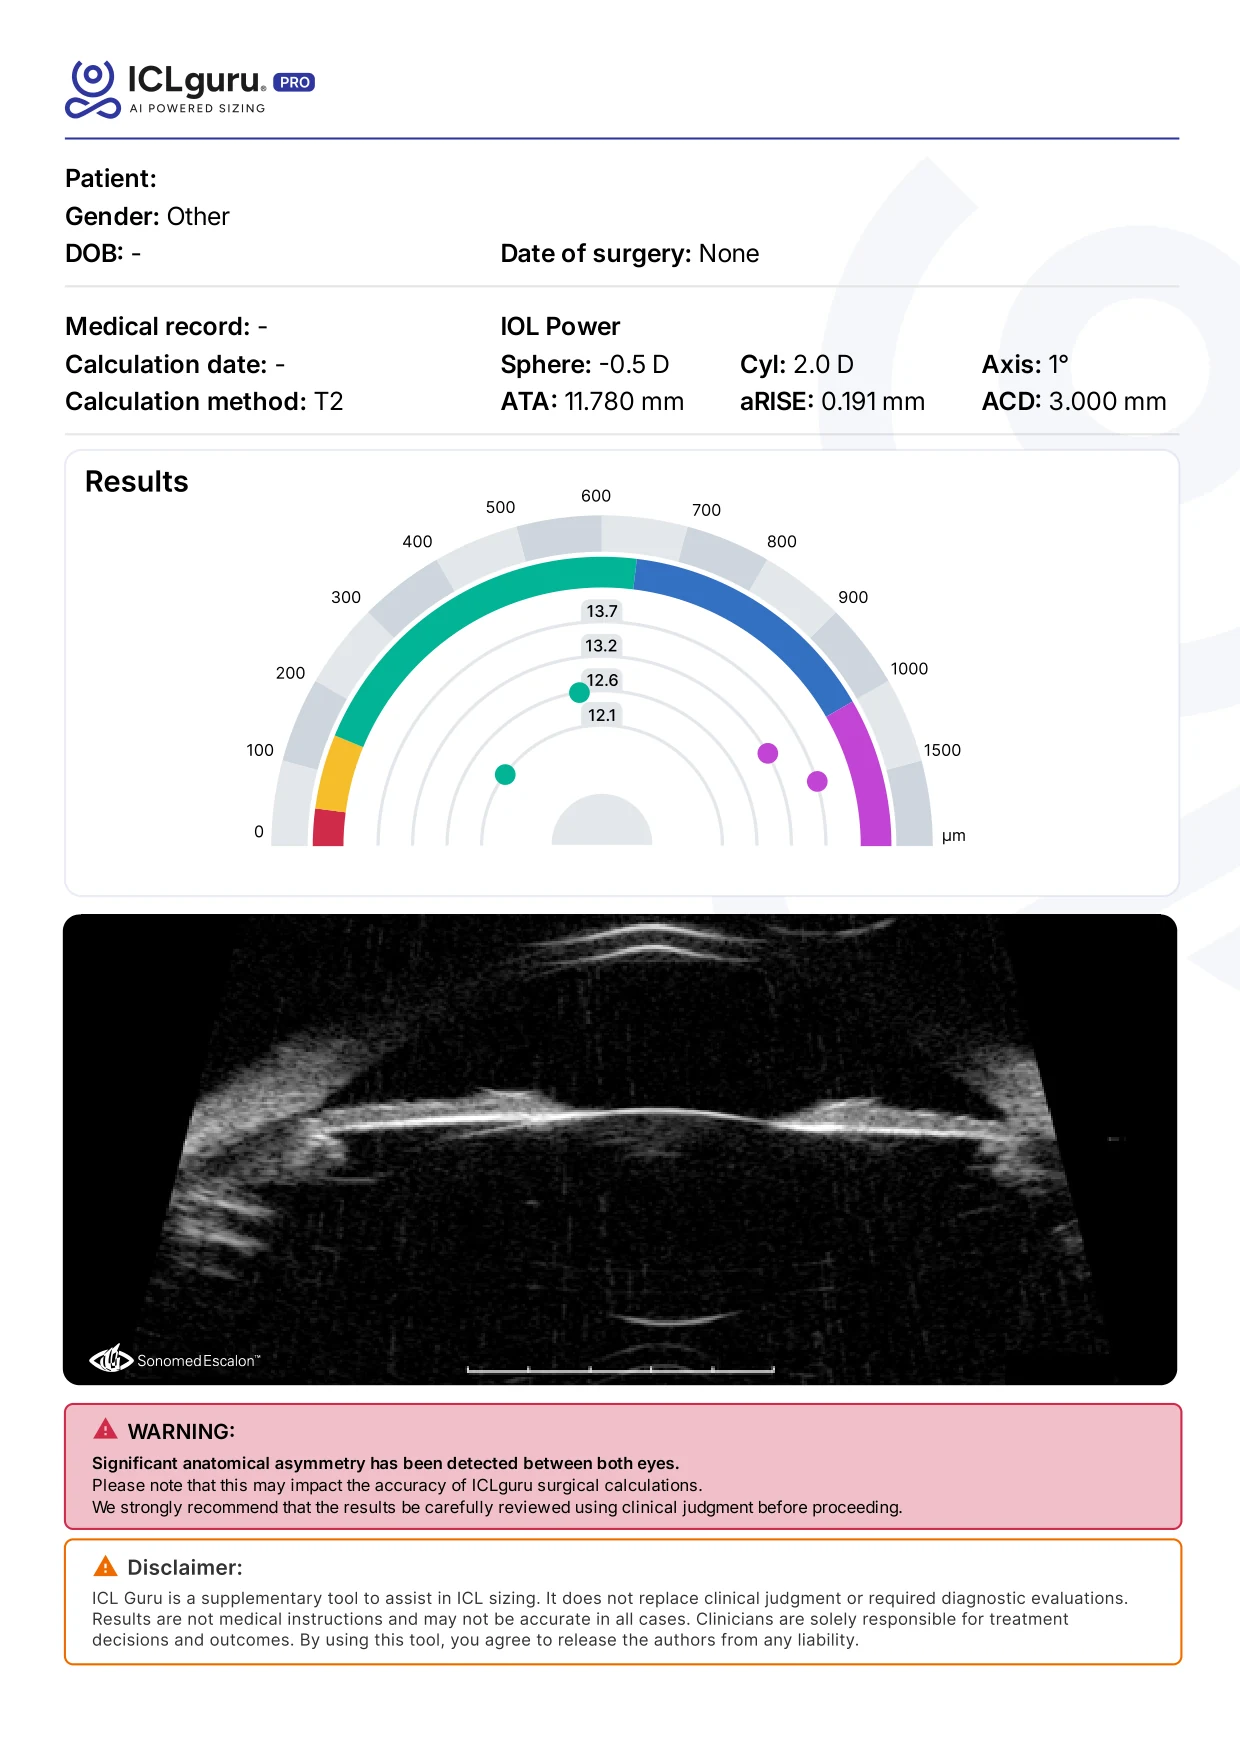
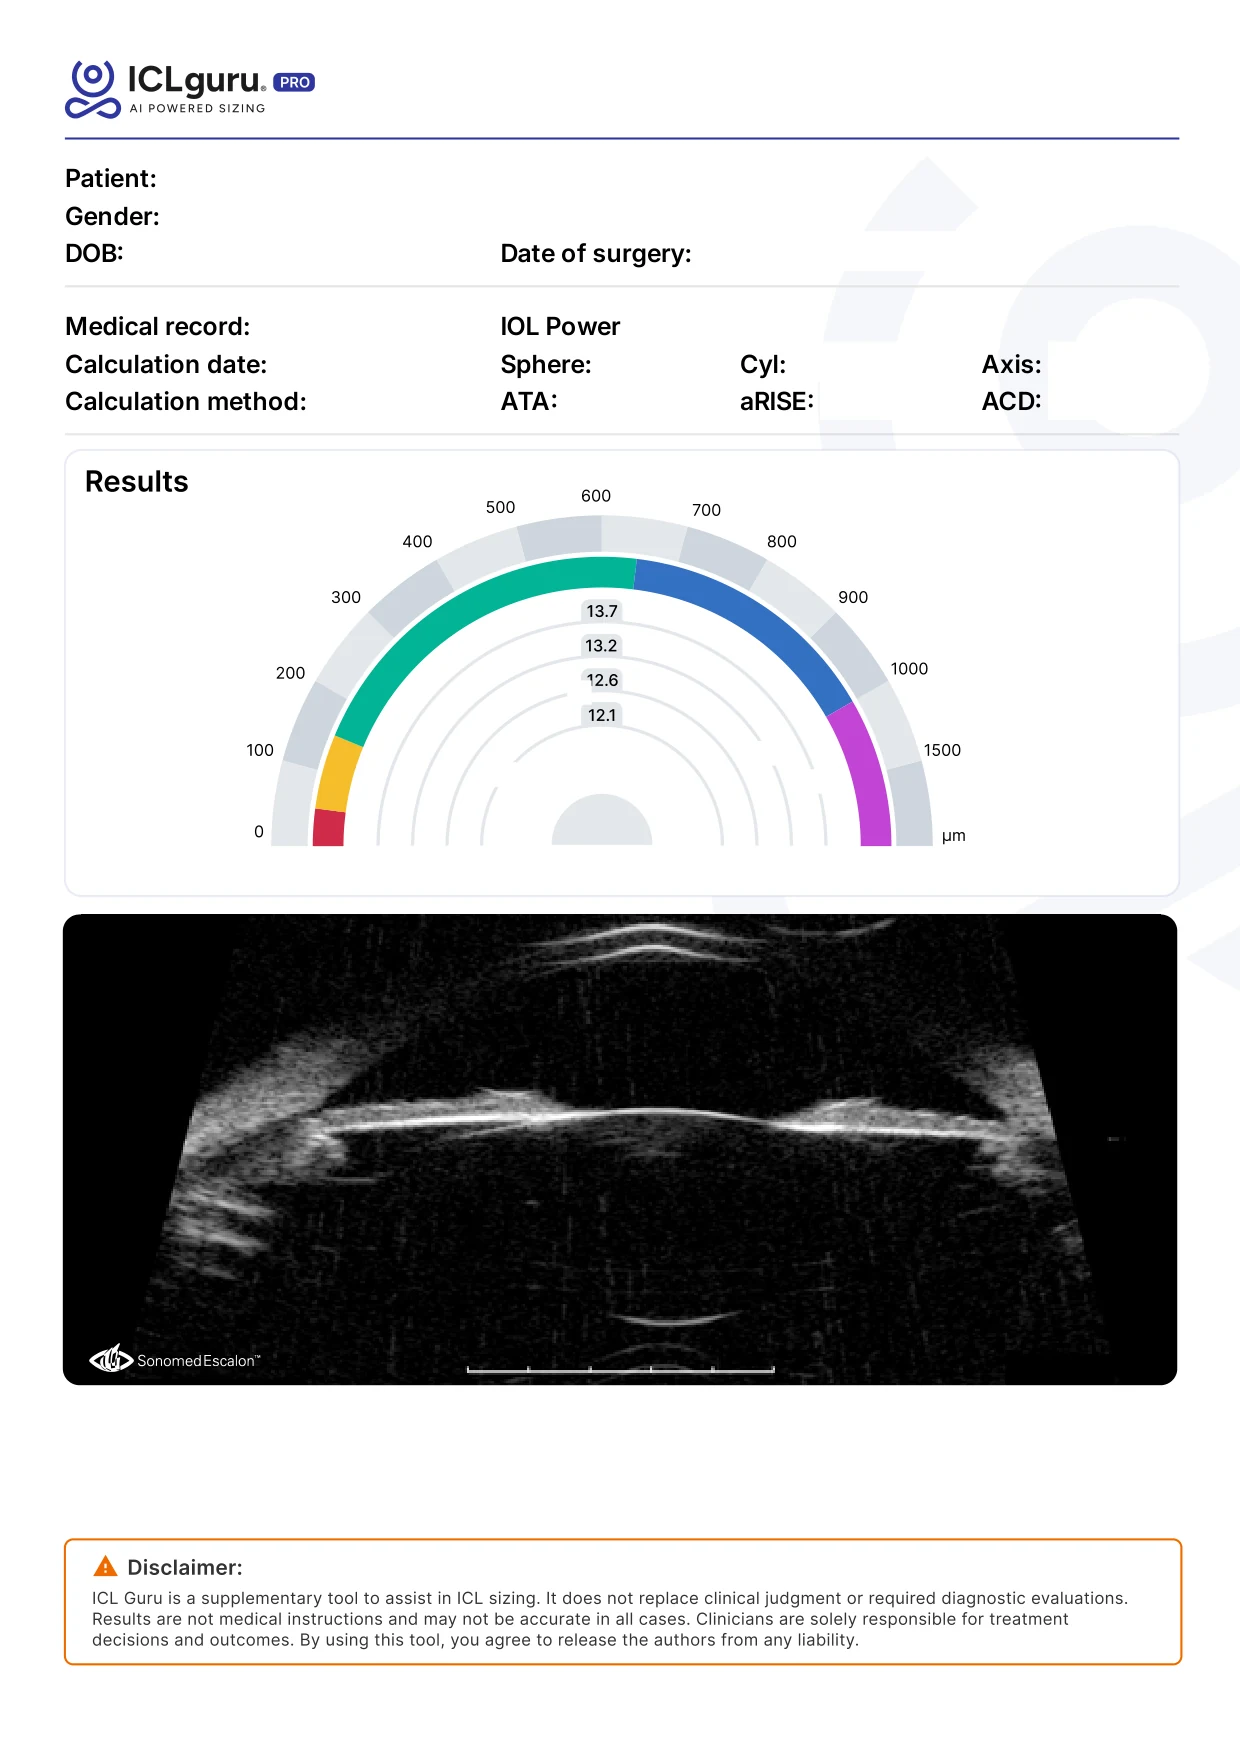
ICL Guru report: every value now comes from the open case
The page images keep only the document's fixed chrome; every
case-specific value is blanked out of them and redrawn as an SVG overlay
in PDF coordinates: patient, gender, medical record, calculation date,
sphere/cyl/axis, ATA/aRISE/ACD, the four per-size vault predictions with
their peripheral vault and angle, the band-probability chips, the vault
shape and its colour split, the dial markers and the selection ring.

SIZING_ENGINE gains vaultBySize(), the vault this method predicts for
every manufactured size. Safety bands were measured off the report's own
colour arc; the band spread is fitted to the sample report and is an
approximation, like every formula in this demo.

Claude-Session: https://claude.ai/code/session_01Tarukggi7Jbmx53aMLJncP

diff --git a/dashboard/js/19-stella-order-modal-submit-lens-order-to-st.js b/dashboard/js/19-stella-order-modal-submit-lens-order-to-st.js
@@ -403,63 +403,249 @@ function _synthesizeIclGuruFromForm(pt, vault, size){
 ================================================================ */
 var ICLGURU_REPORT = {
   pages: [{ src: '/assets/iclguru/report-p1.webp' }, { src: '/assets/iclguru/report-p2.webp' }],
-  pt: { w: 594.96, h: 841.92 },                    // page box, in PDF points
-  name: { x: 78.4, baseline: 89.4, size: 12 },     // "Patient:" value
+  pt: { w: 594.96, h: 841.92 },              // page box, in PDF points
+  font: "Inter, 'Helvetica Neue', system-ui, sans-serif",
+  /* Header values. x is the label's right edge, y the text baseline —
+     both read off the source PDF, so the values land in the original slots. */
+  head: {
+    size: 12,
+    name:     { x: 78.4,  y: 89.4 },
+    gender:   { x: 79.9,  y: 107.4 },
+    dob:      { x: 62.7,  y: 125.4 },
+    surgery:  { x: 335.4, y: 125.4 },
+    mrn:      { x: 123.4, y: 160.4 },
+    calcdate: { x: 131.7, y: 178.4 },
+    method:   { x: 150.4, y: 196.4 },
+    sph:      { x: 287.4, y: 178.4 },
+    cyl:      { x: 380.6, y: 178.4 },
+    axis:     { x: 503.4, y: 178.4 },
+    ata:      { x: 270.9, y: 196.4 },
+    arise:    { x: 394.1, y: 196.4 },
+    acd:      { x: 503.4, y: 196.4 }
+  },
   badge: { cx: 252.6, cy: 87.5, r: 12.5, fill: '#3689E7', size: 9.5 },
-  /* Page 2 · "Results": four size cards, measured from the source PDF.
-     The sample report has 12.1 ringed; the ring is repainted onto whichever
-     size ICL Guru actually recommends for this case. */
+  /* Page 1 · the vault dial. Centre, per-size ring radii and the angle of the
+     0 / 1000 / 1500 µm ticks, all fitted to the source drawing. */
+  dial: { page: 1, cx: 288.21, cy: 407.33, rings: [57.87, 75.54, 92.45, 108.97],
+          a0: 177.12, a1000: 30.44, a1500: 1.69, dot: 4.95 },
+  /* Page 2 · the four size cards. */
   cards: {
-    page: 2, sizes: [12.1, 12.6, 13.2, 13.7],
-    x0: 31.2, w: 119.9, step: 138.0, y0: 247.0, h: 273.9, r: 7.9,
-    grow: 0.8,                       // the selected card's ring sits 0.8 pt outside
-    on: '#4966FF', off: '#EEECF4'    // ring colours, sampled from the render
-  }
+    page: 2, sizes: [12.1, 12.6, 13.2, 13.7], step: 137.98,
+    x0: 31.2, w: 119.9, y0: 247.0, h: 273.9, r: 7.9, grow: 0.8,
+    on: '#4966FF', off: '#EEECF4', ink: '#001DB4',
+    vault:  { x: 53.2,  y: 323.4, size: 11 },
+    periph: { x: 53.2,  y: 348.6, size: 7 },
+    angle:  { x: 114.1, y: 348.6, size: 7 },
+    pill:   { x: 55.42, y: 367.2, w: 34.49, h: 13.5, gap: 1.5, size: 10.7, y1: 377.9 },
+    blob:   { path: 'M86.89 385.99C88.37 385.87 95.7 386.03 97.22 386.23C98.11 386.33 99.92 386.63 101.24 386.91C107.1 388.08 113.38 388.54 123.95 388.57L129.39 388.58L130.09 388.92C131.71 389.72 132.66 391.08 132.77 392.77C132.85 393.94 132.59 394.81 131.87 395.87C130.9 397.28 130.38 398.49 129.99 400.21C129.74 401.32 129.61 409.79 129.72 417.95C129.79 423.52 129.8 423.61 130.12 424.82C130.51 426.28 130.94 427.26 131.8 428.56C132.6 429.76 132.85 430.59 132.77 431.75C132.66 433.42 131.77 434.75 130.24 435.5L129.28 435.97L125.37 435.93C116.5 435.83 106.01 436.53 101.99 437.47L101.32 437.62C98.07 438.34 95.53 438.56 90.73 438.56C85.59 438.56 83.05 438.31 79.42 437.46C75.44 436.53 64.99 435.83 56.14 435.93L52.18 435.97L51.35 435.57C49.76 434.82 48.79 433.45 48.68 431.78C48.61 430.66 48.82 429.87 49.51 428.77L49.66 428.55C50.89 426.67 51.44 425.09 51.62 422.73C51.77 420.99 51.78 405.76 51.65 402.29L51.62 401.76C51.46 399.61 50.91 397.92 49.81 396.21L49.58 395.87C48.91 394.88 48.64 394.05 48.67 392.99L48.68 392.77C48.79 391.09 49.79 389.64 51.35 388.91L52.06 388.58L57.5 388.57C67.45 388.54 74.66 388.05 79.28 387.08C81.83 386.55 83.37 386.3 85.79 386.08L86.89 385.99Z', x: 49.17, y: 386.45, w: 83.49, h: 51.49 }
+  },
+  /* Vault safety bands, in µm, measured off the dial's own colour arc. */
+  bands: [
+    { to: 36,   key: 'critical', color: '#CF2B49' },
+    { to: 139,  key: 'low',      color: '#F6BF2C' },
+    { to: 644,  key: 'ideal',    color: '#03B496' },
+    { to: 1002, key: 'high',     color: '#3371C3' },
+    { to: 1e9,  key: 'hyper',    color: '#C144D4' }
+  ],
+  /* Spread of the vault estimate, as a fraction of the prediction. Drives the
+     band-probability chips and the split of the vault shape. Fitted to the
+     sample report; an approximation, like every formula in this demo. */
+  sd: 0.35
 };
 
-/* Repaint the "selected size" ring of page 2 onto the recommended size:
-   white over the ring that is there, then the ring where it belongs. */
-function _guruSizeRings(pageNo, size) {
-  var C = ICLGURU_REPORT.cards;
-  if (pageNo !== C.page || size == null) return '';
-  var want = -1, best = 0.051;
-  for (var i = 0; i < C.sizes.length; i++) {
-    var d = Math.abs(C.sizes[i] - Number(size));
-    if (d < best) { best = d; want = i; }
+function _esc(v) { return String(v == null ? '' : v).replace(/[&<>"']/g, function (c) {
+  return { '&': '&amp;', '<': '&lt;', '>': '&gt;', '"': '&quot;', "'": '&#39;' }[c]; }); }
+
+/* ---- small maths shared by the chips, the shape and the dial ---- */
+function _guruErf(x) {                              // Abramowitz & Stegun 7.1.26
+  var s = x < 0 ? -1 : 1; x = Math.abs(x);
+  var t = 1 / (1 + 0.3275911 * x);
+  var y = 1 - ((((1.061405429 * t - 1.453152027) * t + 1.421413741) * t
+    - 0.284496736) * t + 0.254829592) * t * Math.exp(-x * x);
+  return s * y;
+}
+function _guruCdf(x, mu, sd) { return 0.5 * (1 + _guruErf((x - mu) / (sd * Math.SQRT2))); }
+
+/* Probability mass per safety band for a vault prediction. */
+function _guruBands(vault) {
+  var R = ICLGURU_REPORT, sd = Math.max(25, R.sd * vault), lo = 0, out = [];
+  for (var i = 0; i < R.bands.length; i++) {
+    var hi = R.bands[i].to;
+    var p = _guruCdf(hi, vault, sd) - _guruCdf(lo, vault, sd);
+    out.push({ key: R.bands[i].key, color: R.bands[i].color, p: p });
+    lo = hi;
   }
-  if (want < 0 || want === 0) return '';   // 0 is already the ringed card
-  function box(i, grow) {
-    return { x: C.x0 + C.step * i - grow, y: C.y0 - grow,
-             w: C.w + grow * 2, h: C.h + grow * 2, r: C.r + grow };
-  }
-  function rect(b, stroke, w) {
-    return '<rect x="' + b.x.toFixed(2) + '" y="' + b.y.toFixed(2) + '" width="' + b.w.toFixed(2) +
-      '" height="' + b.h.toFixed(2) + '" rx="' + b.r.toFixed(2) + '" fill="none" stroke="' + stroke +
-      '" stroke-width="' + w + '"/>';
-  }
-  return rect(box(0, C.grow), '#fff', 4) + rect(box(0, 0), C.off, 1) +
-         rect(box(want, 0), '#fff', 3)   + rect(box(want, C.grow), C.on, 1.5);
+  return out;
+}
+/* The one or two bands the report shows, most likely first in card order. */
+function _guruTopBands(vault) {
+  var all = _guruBands(vault);
+  var idx = all.map(function (b, i) { return i; })
+               .sort(function (a, b) { return all[b].p - all[a].p; });
+  var keep = [idx[0]];
+  if (all[idx[1]] && all[idx[1]].p >= 0.015) keep.push(idx[1]);
+  keep.sort(function (a, b) { return a - b; });        // low band on the left
+  return keep.map(function (i) {
+    return { key: all[i].key, color: all[i].color, pct: Math.round(all[i].p * 100) };
+  });
+}
+function _guruBandColor(vault) {
+  var R = ICLGURU_REPORT;
+  for (var i = 0; i < R.bands.length; i++) if (vault <= R.bands[i].to) return R.bands[i].color;
+  return R.bands[R.bands.length - 1].color;
+}
+/* Vault → angle on the dial. The scale is linear to 1000 µm, then compressed. */
+function _guruDialAngle(v) {
+  var D = ICLGURU_REPORT.dial;
+  v = Math.max(0, Math.min(1500, v));
+  return v <= 1000 ? D.a0 - (D.a0 - D.a1000) * (v / 1000)
+                   : D.a1000 - (D.a1000 - D.a1500) * ((v - 1000) / 500);
 }
 
-function _guruPage(src, name, eye, pageNo, size) {
+/* ---- SVG helpers ---- */
+function _gText(x, y, size, txt, opt) {
+  opt = opt || {};
+  return '<text x="' + x + '" y="' + y + '" font-family="' + ICLGURU_REPORT.font + '"' +
+    ' font-size="' + size + '" font-weight="' + (opt.weight || 400) + '"' +
+    (opt.anchor ? ' text-anchor="' + opt.anchor + '"' : '') +
+    ' fill="' + (opt.fill || '#000') + '">' + _esc(txt) + '</text>';
+}
+function _gRect(x, y, w, h, r, fill, stroke, sw) {
+  return '<rect x="' + x.toFixed(2) + '" y="' + y.toFixed(2) + '" width="' + w.toFixed(2) +
+    '" height="' + h.toFixed(2) + '" rx="' + r.toFixed(2) + '" fill="' + (fill || 'none') + '"' +
+    (stroke ? ' stroke="' + stroke + '" stroke-width="' + sw + '"' : '') + '/>';
+}
+
+/* ================= the report model, built from the live case ============= */
+function _guruModel(pt, eye, size) {
+  var SE = window.SIZING_ENGINE;
+  var raw = (SE && SE.readInputs) ? SE.readInputs() : {};
+  var run = (SE && SE.run) ? SE.run('ICL_GURU', raw) : null;
+  var i = (run && run.inputs) || {};
+  var curve = (SE && SE.vaultBySize) ? SE.vaultBySize('ICL_GURU', raw) : null;
+
+  function fld(id) { var e = document.getElementById(id); return e ? String(e.value).trim() : ''; }
+  function n(v) { var x = parseFloat(v); return isFinite(x) ? x : null; }
+  var sph = n(fld('sf-rx-man-sph')), cyl = n(fld('sf-rx-man-cyl')), ax = n(fld('sf-rx-man-ax'));
+  if (sph == null) sph = n(String(pt.power || '').split('/')[eye === 'OS' ? 1 : 0]);
+
+  return {
+    name: pt.name,
+    eye: eye,
+    gender: pt.sex === 'F' ? 'Female' : pt.sex === 'M' ? 'Male' : 'Other',
+    dob: '-',                       // the demo records age, never a date of birth
+    surgery: pt.surgeryDate || 'None',
+    mrn: 'REV-' + pt.id,
+    calcdate: new Date().toLocaleDateString('en-GB'),
+    method: 'T2',
+    sph: sph == null ? '-' : sph.toFixed(1) + ' D',
+    cyl: cyl == null ? '-' : Math.abs(cyl).toFixed(1) + ' D',
+    axis: ax == null ? '-' : Math.round(ax) + '\u00B0',
+    ata: isFinite(i.ata) ? i.ata.toFixed(3) + ' mm' : '-',
+    /* aRISE is captured in mm on the pre-op form — printed as entered, so the
+       report and the form always agree. (The sizing engine reads the same
+       field as µm; that unit mismatch lives in the engine, not here.) */
+    arise: n(fld('sf-arise')) != null ? n(fld('sf-arise')).toFixed(3) + ' mm' : '-',
+    acd: isFinite(i.acd) ? i.acd.toFixed(3) + ' mm' : '-',
+    size: size,
+    curve: curve || []
+  };
+}
+
+/* ================= drawing ================= */
+function _guruHead(m) {
+  var H = ICLGURU_REPORT.head, R = ICLGURU_REPORT, o = '';
+  var fs = H.size;
+  if (String(m.name).length > 20) fs = Math.max(8, fs * 20 / String(m.name).length);
+  o += _gText(H.name.x, H.name.y, fs.toFixed(2), m.name);
+  o += '<circle cx="' + R.badge.cx + '" cy="' + R.badge.cy + '" r="' + R.badge.r + '" fill="' + R.badge.fill + '"/>';
+  o += _gText(R.badge.cx, R.badge.cy + R.badge.size * 0.35, R.badge.size, m.eye,
+              { anchor: 'middle', weight: 700, fill: '#fff' });
+  ['gender', 'dob', 'surgery', 'mrn', 'calcdate', 'method',
+   'sph', 'cyl', 'axis', 'ata', 'arise', 'acd'].forEach(function (k) {
+    o += _gText(H[k].x, H[k].y, H.size, m[k]);
+  });
+  return o;
+}
+
+function _guruDial(m) {
+  var D = ICLGURU_REPORT.dial, o = '';
+  m.curve.forEach(function (c, idx) {
+    if (idx >= D.rings.length) return;
+    var a = _guruDialAngle(c.vault) * Math.PI / 180, r = D.rings[idx];
+    o += '<circle cx="' + (D.cx + r * Math.cos(a)).toFixed(2) + '" cy="' +
+         (D.cy - r * Math.sin(a)).toFixed(2) + '" r="' + D.dot.toFixed(2) +
+         '" fill="' + _guruBandColor(c.vault) + '"/>';
+  });
+  return o;
+}
+
+function _guruCards(m) {
+  var C = ICLGURU_REPORT.cards, o = '';
+  var want = -1;
+  for (var k = 0; k < C.sizes.length; k++) if (Math.abs(C.sizes[k] - Number(m.size)) < 0.051) want = k;
+
+  m.curve.forEach(function (c, idx) {
+    if (idx >= C.sizes.length) return;
+    var dx = C.step * idx;
+    var hyper = c.vault > 1002;
+    var mm = (c.vault / 1000).toFixed(3) + ' mm';
+    o += _gText(C.vault.x + dx, C.vault.y, C.vault.size, hyper ? 'HYPERVAULT' : mm, { weight: 600 });
+    o += _gText(C.periph.x + dx, C.periph.y, C.periph.size, hyper ? 'HYPERVAULT' : mm, { weight: 500 });
+    /* Angle closes as the lens vaults higher — fitted to the source report. */
+    var ang = Math.max(4, 29.03 - 13.22 * (c.vault / 1000));
+    o += _gText(C.angle.x + dx, C.angle.y, C.angle.size,
+                (Math.round(ang * 1000) / 1000) + '\u00B0', { weight: 500 });
+
+    var tops = _guruTopBands(c.vault);
+    var P = C.pill, cx = C.x0 + dx + C.w / 2;
+    var total = tops.length * P.w + (tops.length - 1) * P.gap;
+    tops.forEach(function (t, j) {
+      var px = cx - total / 2 + j * (P.w + P.gap);
+      o += _gRect(px, P.y, P.w, P.h, P.h / 2, t.color, C.ink, 0.5);
+      o += _gText(px + P.w / 2, P.y1, P.size, t.pct + '%',
+                  { anchor: 'middle', weight: 600, fill: '#fff' });
+    });
+
+    var B = C.blob, cid = 'guruBlob' + idx;
+    var sum = tops.reduce(function (a, t) { return a + t.pct; }, 0) || 1;
+    var seg = '', run = 0;
+    tops.forEach(function (t) {
+      var w = B.w * (t.pct / sum);
+      seg += '<rect x="' + (B.x + run).toFixed(2) + '" y="' + B.y + '" width="' + (w + 0.4).toFixed(2) +
+             '" height="' + B.h + '" fill="' + t.color + '"/>';
+      run += w;
+    });
+    o += '<g transform="translate(' + dx.toFixed(2) + ',0)">' +
+           '<clipPath id="' + cid + '"><path d="' + B.path + '"/></clipPath>' +
+           '<g clip-path="url(#' + cid + ')">' + seg + '</g>' +
+           '<path d="' + B.path + '" fill="none" stroke="' + C.ink + '" stroke-width="1.3"/>' +
+         '</g>';
+  });
+
+  /* Move the "selected size" ring onto the size this case recommends. */
+  if (want > 0) {
+    function box(i, g) { return { x: C.x0 + C.step * i - g, y: C.y0 - g,
+                                  w: C.w + g * 2, h: C.h + g * 2, r: C.r + g }; }
+    var a = box(0, C.grow), b = box(0, 0), c2 = box(want, 0), d2 = box(want, C.grow);
+    o += _gRect(a.x, a.y, a.w, a.h, a.r, null, '#fff', 4) +
+         _gRect(b.x, b.y, b.w, b.h, b.r, null, C.off, 1) +
+         _gRect(c2.x, c2.y, c2.w, c2.h, c2.r, null, '#fff', 3) +
+         _gRect(d2.x, d2.y, d2.w, d2.h, d2.r, null, C.on, 1.5);
+  }
+  return o;
+}
+
+function _guruPage(src, m, pageNo) {
   var R = ICLGURU_REPORT;
-  // keep a long name inside the gap between "Patient:" and the OD/OS badge
-  var fsize = R.name.size;
-  if (String(name).length > 20) fsize = Math.max(8, fsize * 20 / String(name).length);
   return '<div class="guru-page">' +
     '<img src="' + src + '" alt="ICL Guru PRO report page" loading="lazy">' +
     '<svg class="guru-page-ovl" viewBox="0 0 ' + R.pt.w + ' ' + R.pt.h + '" aria-hidden="true">' +
-      '<text x="' + R.name.x + '" y="' + R.name.baseline + '" font-family="Inter, system-ui, sans-serif"' +
-        ' font-size="' + fsize.toFixed(2) + '" fill="#000">' + _esc(name) + '</text>' +
-      '<circle cx="' + R.badge.cx + '" cy="' + R.badge.cy + '" r="' + R.badge.r + '" fill="' + R.badge.fill + '"/>' +
-      '<text x="' + R.badge.cx + '" y="' + (R.badge.cy + R.badge.size * 0.35) + '" text-anchor="middle"' +
-        ' font-family="Inter, system-ui, sans-serif" font-size="' + R.badge.size + '" font-weight="700"' +
-        ' fill="#fff">' + _esc(eye) + '</text>' +
-      _guruSizeRings(pageNo, size) +
+      _guruHead(m) +
+      (pageNo === R.dial.page ? _guruDial(m) : '') +
+      (pageNo === R.cards.page ? _guruCards(m) : '') +
     '</svg></div>';
 }
-function _esc(v) { return String(v == null ? '' : v).replace(/[&<>"']/g, function (c) {
-  return { '&': '&amp;', '<': '&lt;', '>': '&gt;', '"': '&quot;', "'": '&#39;' }[c]; }); }
 
 function openIclGuruPdf(patientId, size){
   const pt = (DATA.patients || []).find(p => p.id === patientId);
@@ -471,6 +657,8 @@ function openIclGuruPdf(patientId, size){
     ? EYE_SCOPE
     : String(pt.eye || 'OD').split('/')[0].trim().toUpperCase();
   if (eye !== 'OD' && eye !== 'OS') eye = 'OD';
+
+  var _m = _guruModel(pt, eye, size);
 
   const wrap = document.createElement('div');
   wrap.className = 'guru-scrim';
@@ -495,7 +683,7 @@ function openIclGuruPdf(patientId, size){
         '</div>' +
       '</header>' +
       '<div class="guru-doc-body">' +
-        ICLGURU_REPORT.pages.map(function (p, i) { return _guruPage(p.src, pt.name, eye, i + 1, size); }).join('') +
+        ICLGURU_REPORT.pages.map(function (p, i) { return _guruPage(p.src, _m, i + 1); }).join('') +
       '</div>' +
     '</div>';
   document.body.appendChild(wrap);

diff --git a/dashboard/js/42-sizing-engine.js b/dashboard/js/42-sizing-engine.js
@@ -104,6 +104,20 @@
     };
   }
 
+  /* Vault this method predicts for EVERY manufactured size, not just the
+     recommended one — the ICL Guru report shows all four side by side. */
+  function vaultBySize(code, raw) {
+    var fn = METHODS[code];
+    if (!fn) return null;
+    var i = normalise(raw || {});
+    var out = fn(i);
+    if (out.target == null) return null;
+    return SIZES.map(function (s) {
+      var v = vaultFor(s, out.target, i);
+      return { size: s, vault: v, band: bandFor(v) };
+    });
+  }
+
   /* Read the sizing inputs straight off the pre-op form. */
   function readInputs() {
     function g(id) { var e = document.getElementById(id); return e ? e.value : ''; }
@@ -111,5 +125,6 @@
              clr: g('sf-clr'), arise: g('sf-arise'), al: g('sf-al'), kmean: g('sf-kmean') };
   }
 
-  window.SIZING_ENGINE = { run: run, readInputs: readInputs, snap: snap, SIZES: SIZES, stellaSize: stellaSize };
+  window.SIZING_ENGINE = { run: run, vaultBySize: vaultBySize, readInputs: readInputs,
+                           snap: snap, SIZES: SIZES, stellaSize: stellaSize };
 })();
